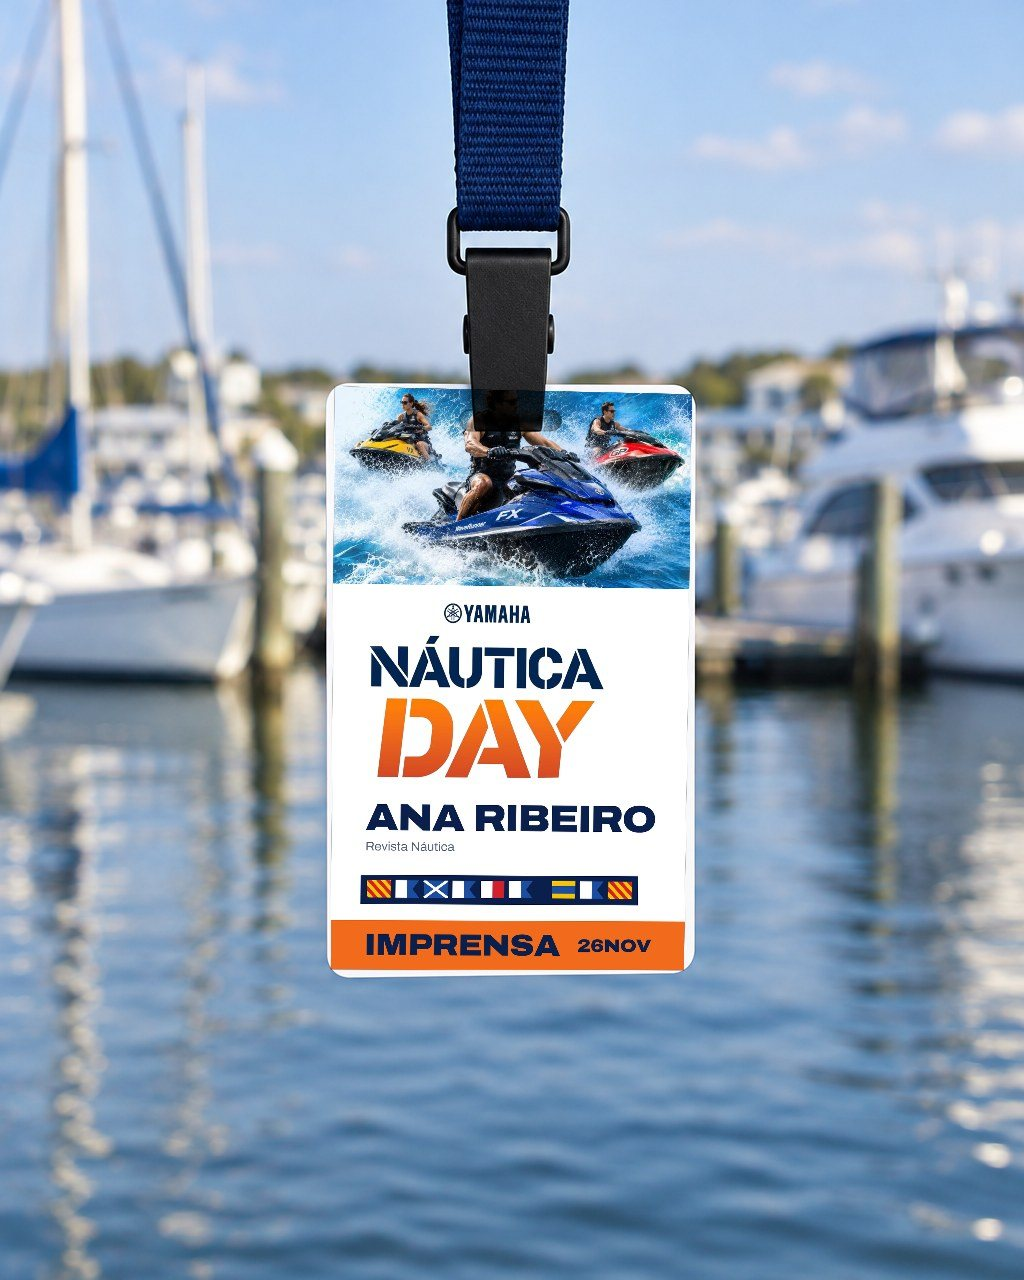
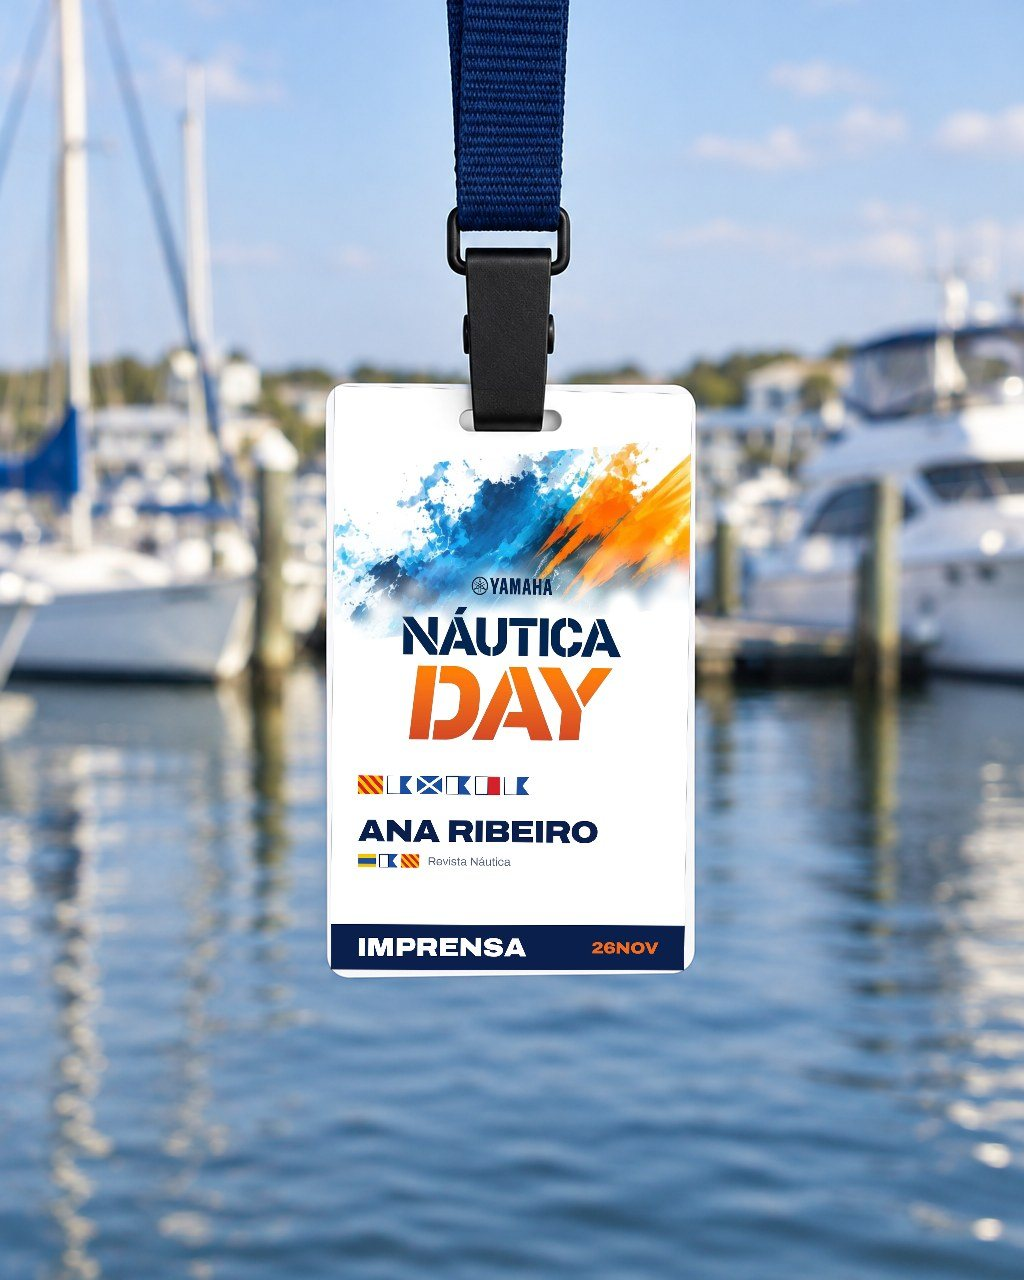
Parede de imprensa e pórtico; Adrenalina com aquarela do KV; cordão Largada com NÁUTICA
Claude-Session: https://claude.ai/code/session_011PRs9YJZJdpFaPzDBAVnYC

Changed region(s): [[0.3125, 0.2812, 0.6875, 0.7812]]

diff --git a/index.html b/index.html
@@ -500,7 +500,7 @@ function voteBox(){const k=KV[i],liked=!!ls.get("nd-like-"+k.id),c=cnt(k.id);
   <div class="tal">${KV.map((x,n)=>`<div class="row ${ls.get("nd-like-"+x.id)?'me':''}"><span>Rota ${n+1} · ${x.name}</span><b>${dbState==="ok"?cnt(x.id):'–'} ♥</b></div>`).join('')}</div></div>`}
 function bindVote(){const b=$("#vb");if(b)b.onclick=()=>cast(KV[i].id)}
 
-const PCS={"a": [{"t": "Backdrop", "d": "O KV inteiro numa parede de 8 m na área de recepção do Refúgio, com o lockup, a data e as bandeiras livres de qualquer obstáculo.", "sp": [["Formato", "8 × 4,5 m"], ["Base", "lona front-light ou tecido tensionado"]], "img": "cn-a-wall.jpg"}, {"t": "Wind banners", "d": "Quatro wind banners no píer alternando dois modelos: o lockup com a WaveRunner inteira, e o laranja com Yamaha, as bandeiras D·A·Y e a data.", "sp": [["Formato", "pena, 3,5 m"], ["Base", "tecido sublimado + base com peso"]], "img": "cn-a-wind.jpg"}, {"t": "Convite e agenda digitais", "d": "Para WhatsApp e e-mail, no formato vertical do celular: o convite com a data e o local, e a agenda do dia com os horários do evento.", "sp": [["Formato", "1080 × 1920"], ["Envio", "WhatsApp · e-mail · stories"]], "img": "cn-a-phones.jpg"}, {"t": "Credencial", "d": "Lockup Yamaha + Náutica Day inteiro, uma WaveRunner inteira na luz branca do KV, nome em destaque, bandeiras YAMAHA DAY e faixa laranja por categoria.", "sp": [["Formato", "PVC 9,5 × 14 cm"], ["Categorias", "imprensa · convidado · staff · piloto"]], "img": "cn-a-cred.jpg"}, {"t": "Credencial · arte", "d": "A arte plana da frente, com a margem de segurança respeitada: nada do logo nem da WaveRunner encosta na borda.", "sp": [["Arquivo", "vetor + foto do KV"]], "img": "cn-a-credarte.jpg", "tall": 1}, {"t": "Cordões", "d": "Dois cordões que se alternam: um com Yamaha, o lettering NÁUTICA DAY do KV e as bandeiras YAMAHA DAY, e o laranja com a data, o local e as bandeiras D·A·Y.", "sp": [["Fita", "poliéster 25 mm sublimado"], ["Ferragem", "mosquetão preto fosco"]], "img": "cn-a-lany.jpg"}, {"t": "Camisetas", "d": "Navy com a estampa grande nas costas e branca com a assinatura no peito. Tudo em vetor, cores chapadas, pronto para silk.", "sp": [["Base", "algodão 200 g, oversized"], ["Técnica", "silk em 2 a 4 cores"]], "img": "cn-a-tees.jpg"}, {"t": "Bonés", "d": "Navy e branco com aba navy, com o lockup Yamaha + Náutica Day bordado na frente.", "sp": [["Técnica", "bordado"], ["Modelo", "6 gomos, aba curva"]], "img": "cn-a-caps.jpg"}, {"t": "Kit de bordo", "d": "Caixa com o lockup do KV na tampa e as bandeiras YAMAHA DAY; ecobag com Yamaha e as bandeiras D·A·Y. Dentro: boné, óculos, garrafa, toalha e protetor solar.", "sp": [["Embalagem", "caixa rígida + ecobag de algodão"]], "img": "cn-a-kit.jpg"}], "b": [{"t": "Backdrop", "d": "O KV inteiro numa parede de 8 m na área de recepção do Refúgio, com o lockup, a data e as bandeiras livres de qualquer obstáculo.", "sp": [["Formato", "8 × 4,5 m"], ["Base", "lona front-light ou tecido tensionado"]], "img": "cn-b-wall.jpg"}, {"t": "Wind banners", "d": "Quatro wind banners no píer alternando dois modelos: o lockup com a WaveRunner inteira, e o laranja com Yamaha, as bandeiras D·A·Y e a data.", "sp": [["Formato", "pena, 3,5 m"], ["Base", "tecido sublimado + base com peso"]], "img": "cn-b-wind.jpg"}, {"t": "Convite e agenda digitais", "d": "Para WhatsApp e e-mail, no formato vertical do celular: o convite com a data e o local, e a agenda do dia com os horários do evento.", "sp": [["Formato", "1080 × 1920"], ["Envio", "WhatsApp · e-mail · stories"]], "img": "cn-b-phones.jpg"}, {"t": "Credencial", "d": "Lockup Yamaha + Náutica Day inteiro, uma WaveRunner inteira no navy da carta náutica, nome em destaque, bandeiras YAMAHA DAY e faixa laranja por categoria.", "sp": [["Formato", "PVC 9,5 × 14 cm"], ["Categorias", "imprensa · convidado · staff · piloto"]], "img": "cn-b-cred.jpg"}, {"t": "Credencial · arte", "d": "A arte plana da frente, com a margem de segurança respeitada: nada do logo nem da WaveRunner encosta na borda.", "sp": [["Arquivo", "vetor + foto do KV"]], "img": "cn-b-credarte.jpg", "tall": 1}, {"t": "Cordões", "d": "Dois cordões que se alternam: um com Yamaha, o lettering NÁUTICA DAY do KV e as bandeiras YAMAHA DAY, e o laranja com a data, o local e as bandeiras D·A·Y.", "sp": [["Fita", "poliéster 25 mm sublimado"], ["Ferragem", "mosquetão preto fosco"]], "img": "cn-b-lany.jpg"}, {"t": "Camisetas", "d": "Navy com a estampa grande nas costas e branca com a assinatura no peito. Tudo em vetor, cores chapadas, pronto para silk.", "sp": [["Base", "algodão 200 g, oversized"], ["Técnica", "silk em 2 a 4 cores"]], "img": "cn-b-tees.jpg"}, {"t": "Bonés", "d": "Navy e branco com aba navy, com o lockup Yamaha + Náutica Day bordado na frente.", "sp": [["Técnica", "bordado"], ["Modelo", "6 gomos, aba curva"]], "img": "cn-b-caps.jpg"}, {"t": "Kit de bordo", "d": "Caixa com o lockup do KV na tampa e as bandeiras YAMAHA DAY; ecobag com Yamaha e as bandeiras D·A·Y. Dentro: boné, óculos, garrafa, toalha e protetor solar.", "sp": [["Embalagem", "caixa rígida + ecobag de algodão"]], "img": "cn-b-kit.jpg"}], "c": [{"t": "Backdrop", "d": "O KV inteiro numa parede de 8 m na área de recepção do Refúgio, com o lockup, a data e as bandeiras livres de qualquer obstáculo.", "sp": [["Formato", "8 × 4,5 m"], ["Base", "lona front-light ou tecido tensionado"]], "img": "cn-c-wall.jpg"}, {"t": "Wind banners", "d": "Quatro wind banners no píer alternando dois modelos: o lockup com a WaveRunner inteira, e o laranja com Yamaha, as bandeiras D·A·Y e a data.", "sp": [["Formato", "pena, 3,5 m"], ["Base", "tecido sublimado + base com peso"]], "img": "cn-c-wind.jpg"}, {"t": "Convite e agenda digitais", "d": "Para WhatsApp e e-mail, no formato vertical do celular: o convite com a data e o local, e a agenda do dia com os horários do evento.", "sp": [["Formato", "1080 × 1920"], ["Envio", "WhatsApp · e-mail · stories"]], "img": "cn-c-phones.jpg"}, {"t": "Credencial", "d": "Lockup Yamaha + Náutica Day inteiro, uma WaveRunner inteira nas tarjas de largada, nome em destaque, bandeiras YAMAHA DAY e faixa laranja por categoria.", "sp": [["Formato", "PVC 9,5 × 14 cm"], ["Categorias", "imprensa · convidado · staff · piloto"]], "img": "cn-c-cred.jpg"}, {"t": "Credencial · arte", "d": "A arte plana da frente, com a margem de segurança respeitada: nada do logo nem da WaveRunner encosta na borda.", "sp": [["Arquivo", "vetor + foto do KV"]], "img": "cn-c-credarte.jpg", "tall": 1}, {"t": "Cordões", "d": "Dois cordões que se alternam: um com Yamaha, o lettering NÁUTICA DAY do KV e as bandeiras YAMAHA DAY, e o laranja com a data, o local e as bandeiras D·A·Y.", "sp": [["Fita", "poliéster 25 mm sublimado"], ["Ferragem", "mosquetão preto fosco"]], "img": "cn-c-lany.jpg"}, {"t": "Camisetas", "d": "Navy com a estampa grande nas costas e branca com a assinatura no peito. Tudo em vetor, cores chapadas, pronto para silk.", "sp": [["Base", "algodão 200 g, oversized"], ["Técnica", "silk em 2 a 4 cores"]], "img": "cn-c-tees.jpg"}, {"t": "Bonés", "d": "Navy e branco com aba navy, com o lockup Yamaha + Náutica Day bordado na frente.", "sp": [["Técnica", "bordado"], ["Modelo", "6 gomos, aba curva"]], "img": "cn-c-caps.jpg"}, {"t": "Kit de bordo", "d": "Caixa com o lockup do KV na tampa e as bandeiras YAMAHA DAY; ecobag com Yamaha e as bandeiras D·A·Y. Dentro: boné, óculos, garrafa, toalha e protetor solar.", "sp": [["Embalagem", "caixa rígida + ecobag de algodão"]], "img": "cn-c-kit.jpg"}, {"t": "Camisetas · variação", "d": "Variação já aprovada: navy com as tarjas no peito e as listras na lateral, e laranja com o radar nas costas.", "sp": [["Base", "algodão 200 g, oversized"], ["Técnica", "silk em 2 cores"]], "img": "pz-c-camisetas.jpg"}]};
+const PCS={"a": [{"t": "Parede de imprensa", "d": "Step-and-repeat com o lockup e o Yamaha + bandeiras D·A·Y alternados, para entrevistas na chegada dos pilotos. É a foto que vai circular.", "sp": [["Formato", "4 × 2,5 m em treliça"], ["Base", "lona front-light"]], "img": "cn-a-press.jpg"}, {"t": "Pórtico", "d": "O KV inteiro no pórtico sobre a água, de frente para o público, na largada das baterias.", "sp": [["Formato", "10 × 3 m"], ["Base", "lona tensionada em treliça"]], "img": "cn-a-stage.jpg"}, {"t": "Convite e agenda digitais", "d": "Para WhatsApp e e-mail, no formato vertical do celular: o convite com a data e o local, e a agenda do dia com os horários do evento.", "sp": [["Formato", "1080 × 1920"], ["Envio", "WhatsApp · e-mail · stories"]], "img": "cn-a-phones.jpg"}, {"t": "Credencial", "d": "Lockup Yamaha + Náutica Day inteiro, uma WaveRunner inteira na luz branca do KV, nome em destaque, bandeiras YAMAHA DAY e faixa laranja por categoria.", "sp": [["Formato", "PVC 9,5 × 14 cm"], ["Categorias", "imprensa · convidado · staff · piloto"]], "img": "cn-a-cred.jpg"}, {"t": "Credencial · arte", "d": "A arte plana da frente, com a margem de segurança respeitada: nada do logo nem da WaveRunner encosta na borda.", "sp": [["Arquivo", "vetor + foto do KV"]], "img": "cn-a-credarte.jpg", "tall": 1}, {"t": "Cordões", "d": "Dois cordões que se alternam: um com Yamaha, o lettering NÁUTICA DAY do KV e as bandeiras YAMAHA DAY, e o laranja com a data, o local e as bandeiras D·A·Y.", "sp": [["Fita", "poliéster 25 mm sublimado"], ["Ferragem", "mosquetão preto fosco"]], "img": "cn-a-lany.jpg"}, {"t": "Bonés", "d": "Navy e branco com aba navy, com o lockup Yamaha + Náutica Day bordado na frente.", "sp": [["Técnica", "bordado"], ["Modelo", "6 gomos, aba curva"]], "img": "cn-a-caps.jpg"}], "b": [{"t": "Parede de imprensa", "d": "Step-and-repeat com o lockup e o Yamaha + bandeiras D·A·Y alternados, para entrevistas na chegada dos pilotos. É a foto que vai circular.", "sp": [["Formato", "4 × 2,5 m em treliça"], ["Base", "lona front-light"]], "img": "cn-b-press.jpg"}, {"t": "Pórtico", "d": "O KV inteiro no pórtico sobre a água, de frente para o público, na largada das baterias.", "sp": [["Formato", "10 × 3 m"], ["Base", "lona tensionada em treliça"]], "img": "cn-b-stage.jpg"}, {"t": "Convite e agenda digitais", "d": "Para WhatsApp e e-mail, no formato vertical do celular: o convite com a data e o local, e a agenda do dia com os horários do evento.", "sp": [["Formato", "1080 × 1920"], ["Envio", "WhatsApp · e-mail · stories"]], "img": "cn-b-phones.jpg"}, {"t": "Credencial", "d": "Lockup Yamaha + Náutica Day inteiro, uma WaveRunner inteira no navy da carta náutica, nome em destaque, bandeiras YAMAHA DAY e faixa laranja por categoria.", "sp": [["Formato", "PVC 9,5 × 14 cm"], ["Categorias", "imprensa · convidado · staff · piloto"]], "img": "cn-b-cred.jpg"}, {"t": "Credencial · arte", "d": "A arte plana da frente, com a margem de segurança respeitada: nada do logo nem da WaveRunner encosta na borda.", "sp": [["Arquivo", "vetor + foto do KV"]], "img": "cn-b-credarte.jpg", "tall": 1}, {"t": "Cordões", "d": "Dois cordões que se alternam: um com Yamaha, o lettering NÁUTICA DAY do KV e as bandeiras YAMAHA DAY, e o laranja com a data, o local e as bandeiras D·A·Y.", "sp": [["Fita", "poliéster 25 mm sublimado"], ["Ferragem", "mosquetão preto fosco"]], "img": "cn-b-lany.jpg"}, {"t": "Bonés", "d": "Navy e branco com aba navy, com o lockup Yamaha + Náutica Day bordado na frente.", "sp": [["Técnica", "bordado"], ["Modelo", "6 gomos, aba curva"]], "img": "cn-b-caps.jpg"}], "c": [{"t": "Parede de imprensa", "d": "Step-and-repeat com o lockup e o Yamaha + bandeiras D·A·Y alternados, para entrevistas na chegada dos pilotos. É a foto que vai circular.", "sp": [["Formato", "4 × 2,5 m em treliça"], ["Base", "lona front-light"]], "img": "cn-c-press.jpg"}, {"t": "Pórtico", "d": "O KV inteiro no pórtico sobre a água, de frente para o público, na largada das baterias.", "sp": [["Formato", "10 × 3 m"], ["Base", "lona tensionada em treliça"]], "img": "cn-c-stage.jpg"}, {"t": "Convite e agenda digitais", "d": "Para WhatsApp e e-mail, no formato vertical do celular: o convite com a data e o local, e a agenda do dia com os horários do evento.", "sp": [["Formato", "1080 × 1920"], ["Envio", "WhatsApp · e-mail · stories"]], "img": "cn-c-phones.jpg"}, {"t": "Credencial", "d": "Lockup Yamaha + Náutica Day inteiro, uma WaveRunner inteira nas tarjas de largada, nome em destaque, bandeiras YAMAHA DAY e faixa laranja por categoria.", "sp": [["Formato", "PVC 9,5 × 14 cm"], ["Categorias", "imprensa · convidado · staff · piloto"]], "img": "cn-c-cred.jpg"}, {"t": "Credencial · arte", "d": "A arte plana da frente, com a margem de segurança respeitada: nada do logo nem da WaveRunner encosta na borda.", "sp": [["Arquivo", "vetor + foto do KV"]], "img": "cn-c-credarte.jpg", "tall": 1}, {"t": "Cordões", "d": "Frente navy com Yamaha, as tarjas NÁUTICA / DAY e as bandeiras YAMAHA DAY. Verso laranja com NÁUTICA DAY em lettering repetido ao longo da fita.", "sp": [["Fita", "poliéster 25 mm sublimado"], ["Ferragem", "mosquetão preto fosco"]], "img": "cn-c-lany.jpg"}, {"t": "Camisetas", "d": "Navy com a estampa grande nas costas e branca com a assinatura no peito. Tudo em vetor, cores chapadas, pronto para silk.", "sp": [["Base", "algodão 200 g, oversized"], ["Técnica", "silk em 2 a 4 cores"]], "img": "cn-c-tees.jpg"}, {"t": "Bonés", "d": "Navy e branco com aba navy, com o lockup Yamaha + Náutica Day bordado na frente.", "sp": [["Técnica", "bordado"], ["Modelo", "6 gomos, aba curva"]], "img": "cn-c-caps.jpg"}, {"t": "Camisetas · variação", "d": "Variação já aprovada: navy com as tarjas no peito e as listras na lateral, e laranja com o radar nas costas.", "sp": [["Base", "algodão 200 g, oversized"], ["Técnica", "silk em 2 cores"]], "img": "pz-c-camisetas.jpg"}]};
 function renderB(keep){const k=KV[i],nx=KV[(i+1)%3];
  sheet.classList.add("rB");
  sheet.innerHTML=`<div class="top"><button id="bk">← Voltar<kbd>Esc</kbd></button><span class="nm">Rota ${i+1} · ${k.name}</span><span class="nv"><button id="rp" aria-label="Rota anterior">←</button><button id="rn" aria-label="Próxima rota">→</button></span></div>
